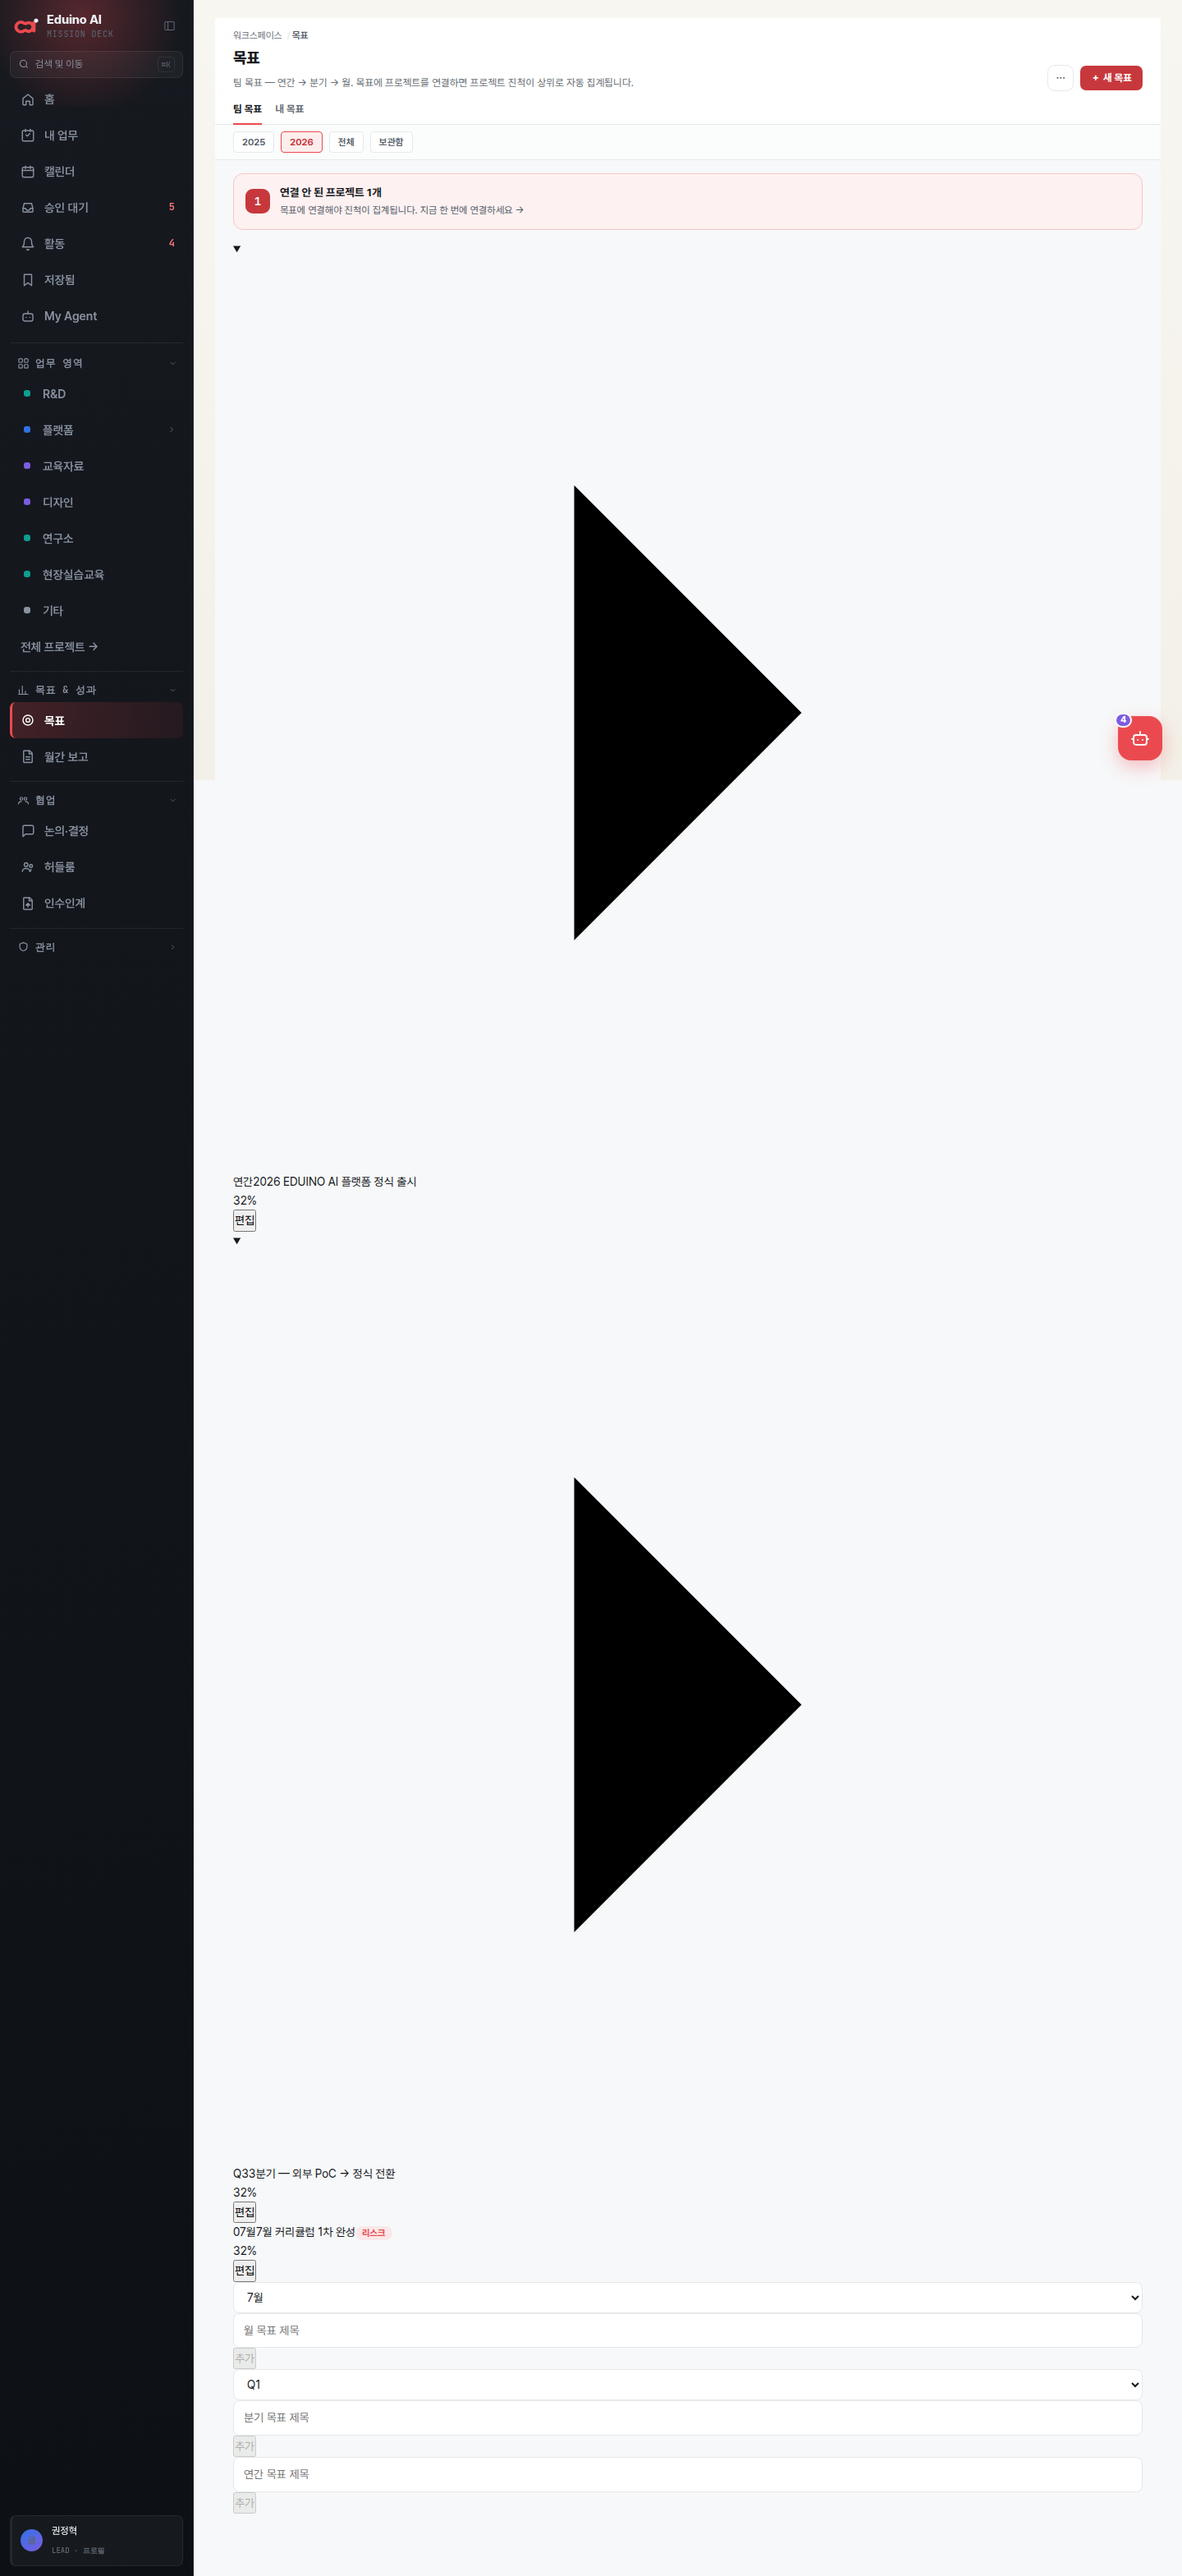
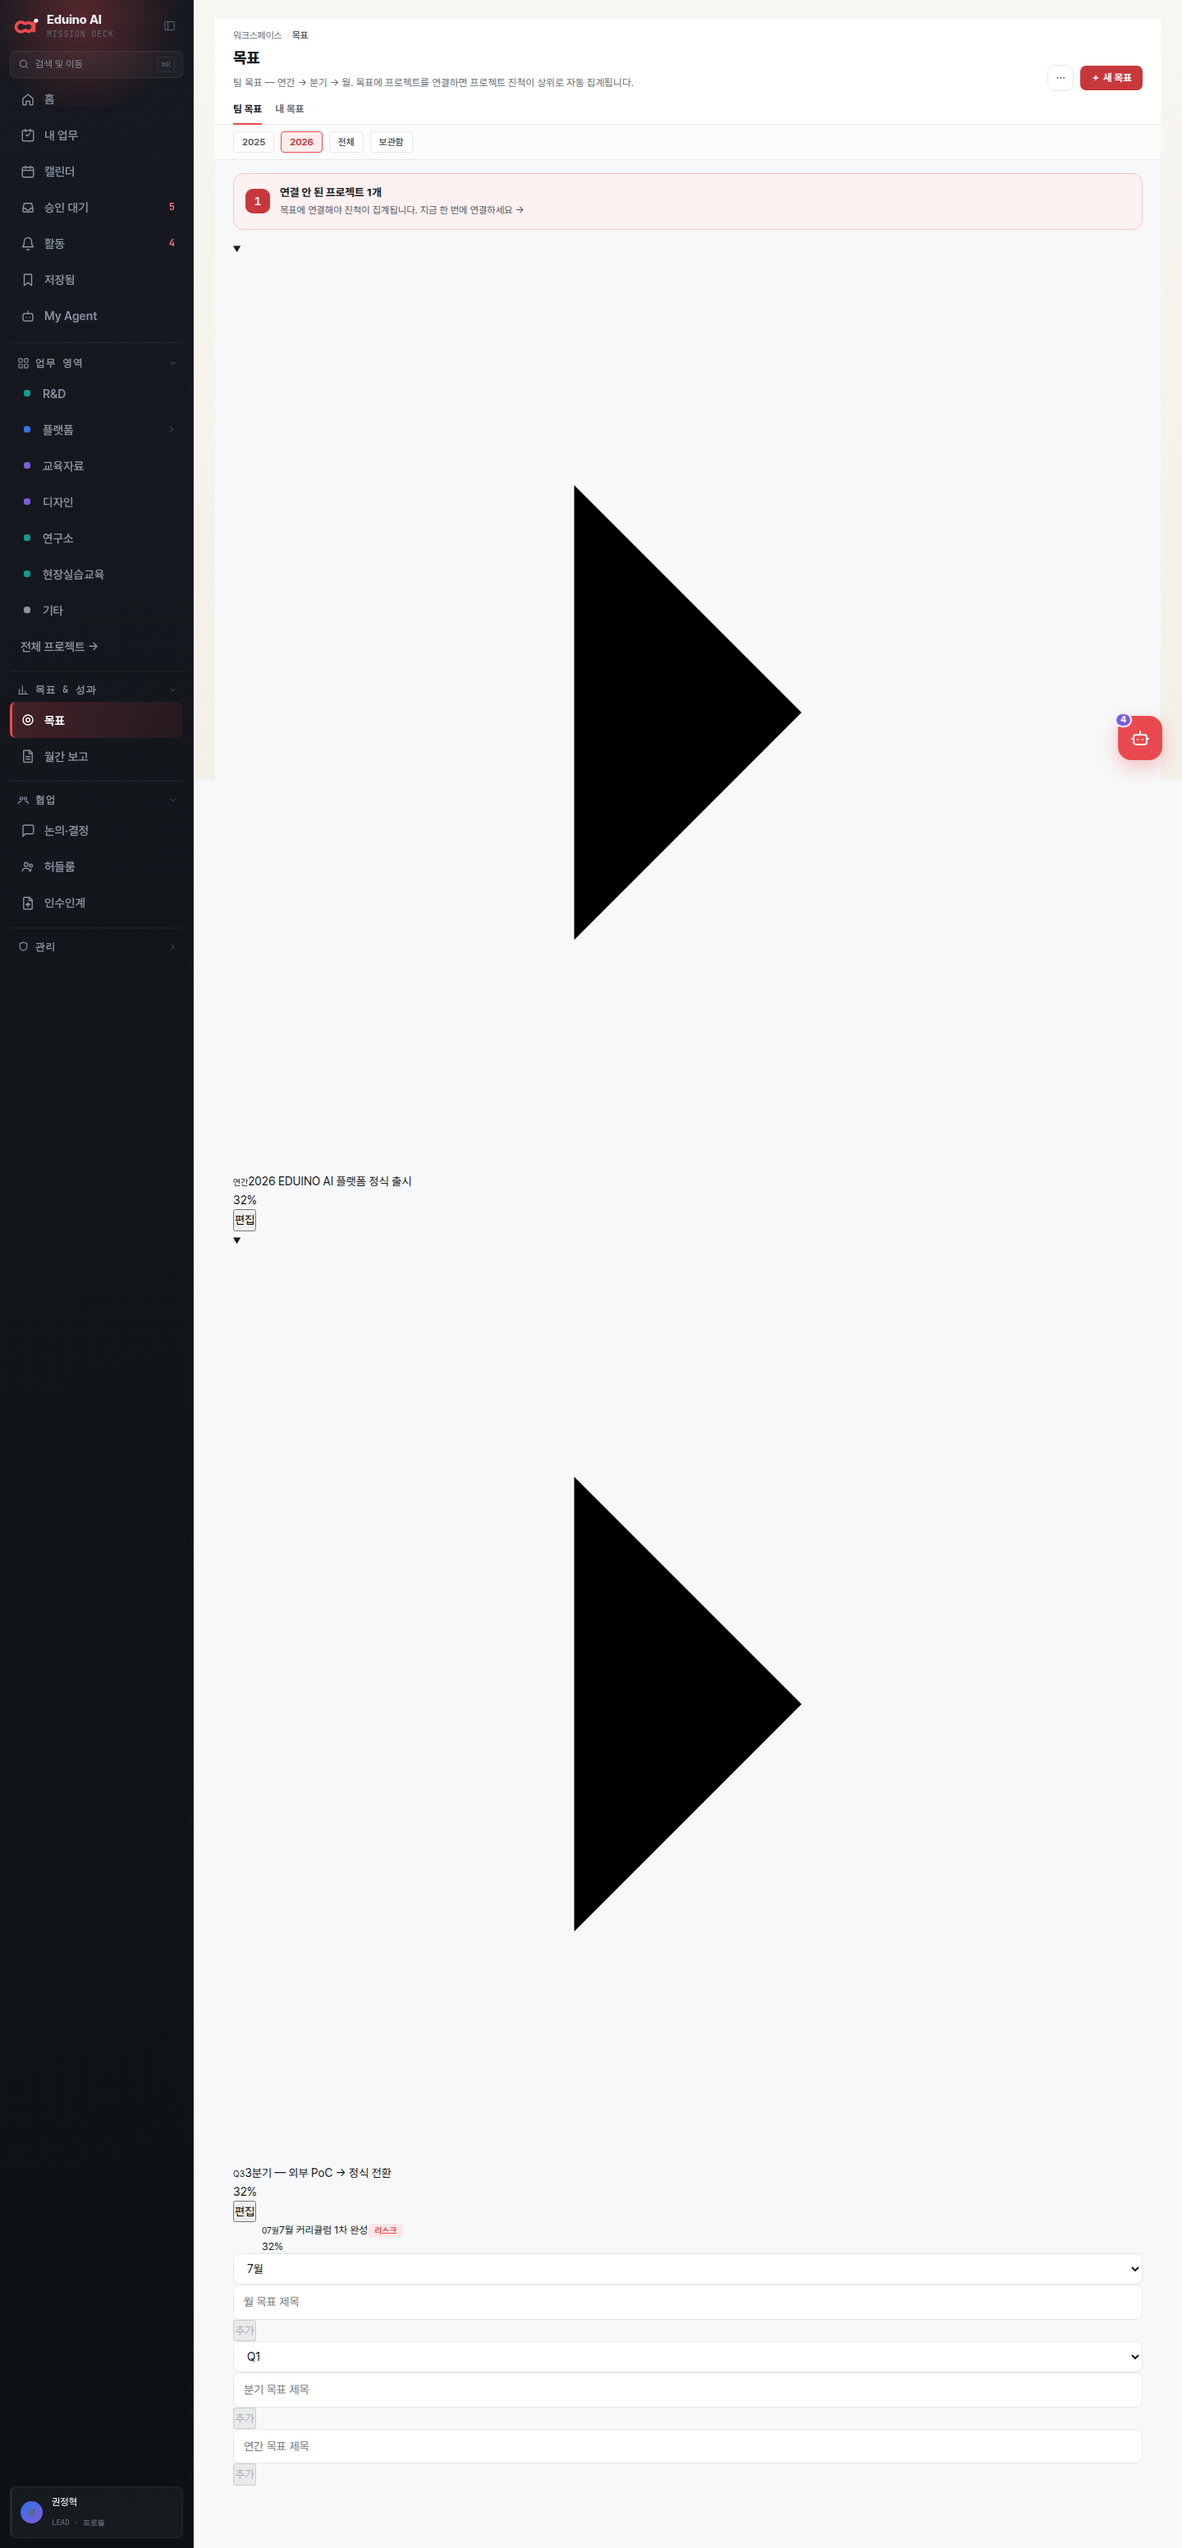
style(goals): 목표 트리 행 밀도를 §G 규격으로 (MD-P-2026-022 회신 ①-b)
트리를 평평하게 펴지 않는다 — 연간→분기→월 계층은 유지하고 밀도만 맞춘다.
- .grow-h 71.17px → 38px, 14px → 12.5px
- 계층은 들여쓰기(margin-left 22px)로 표현
- 제목은 좁아질 때 ellipsis
- 연결 업무 칩(.gtasks)은 행이 아니라 행 아래 보조 줄로 분리 — 행 높이에 섞이지 않게
- 인라인 목표 연결 기능 유지. 마크업 변경 없이 CSS 만 조정(리팩터링 아님)

계측: .grow-h h=38px f=12.5px / .grow h=38px / 들여쓰기 22px / textOverflow=ellipsis
남은 14px 요소(.glink-banner .gtitle .gprog .lk .gadd)는 §G 6단에 포함된 값이라 위반 아님

Claude-Session: https://claude.ai/code/session_01Xpp231V8pSM3sVcBoRknqv

diff --git a/app/design.css b/app/design.css
@@ -473,3 +473,23 @@
 .pg-body .sig-sum .sig-chip-n { font-family: var(--f-d); font-size: 10.5px; color: var(--muted); }
 .pg-body .sig-stall { margin-left: auto; font-size: 11.5px; color: var(--coral-text); display: inline-flex; align-items: center; gap: 5px; }
 .pg-body .sig-stall i { width: 6px; height: 6px; border-radius: 50%; background: var(--coral); }
+
+/* ── §A4 목표 트리 — 계층은 유지하고 밀도만 §G 규격으로 (MD-P-2026-022 회신 ①) ──
+   트리를 평평하게 펴지 않는다. 연간→분기→월 계층이 이 제품의 구조적 차별점이다.
+   행(.grow-h) 을 38px / 12.5px 로 맞추고, 깊이는 들여쓰기(margin-left)로 표현한다. */
+.pg-body .grow { margin: 0 0 0 22px; padding: 0; border: 0; border-radius: 0; }
+.pg-body .grow-h { height: 38px; padding: 0 13px; gap: 8px; font-size: 12.5px;
+  border-bottom: 1px solid var(--hair); transition: background .12s ease; }
+.pg-body .grow-h:hover { background: var(--surface-2); }
+/* 제목이 들여쓰기로 좁아지면 말줄임 */
+.pg-body .grow-h .gtitle, .pg-body .grow-h a { min-width: 0; overflow: hidden;
+  text-overflow: ellipsis; white-space: nowrap; font-size: 12.5px; }
+.pg-body :is(.gtag, .gstatus, .gdrop) { font-size: 10.5px; border-radius: 4px; }
+.pg-body .grow-h .lk { font-size: 11.5px; }
+/* 연결 업무 칩 — 행이 아니라 행 아래 보조 줄. 행 높이 계산에 섞이지 않게 분리한다 */
+.pg-body .gtasks { padding: 6px 13px 8px 13px; border-bottom: 1px solid var(--hair);
+  display: flex; flex-wrap: wrap; gap: 4px; }
+.pg-body .gchip { font-size: 10.5px; border-radius: 4px; }
+/* 상위(연간·분기) 노드도 같은 밀도 */
+.pg-body :is(.gyear, .gq, .gnode) > :is(.grow-h, .gh) { height: 38px; font-size: 12.5px; }
+.pg-body .garchive-toggle { padding: 8px 13px; }
